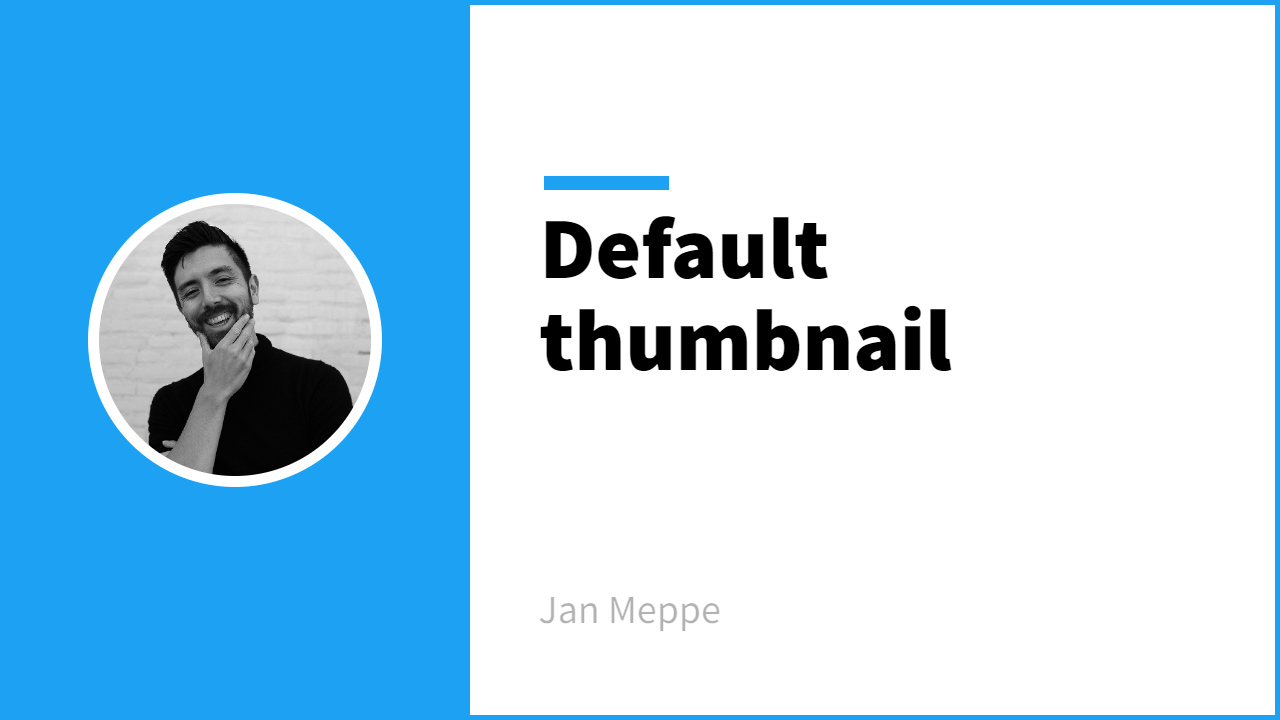
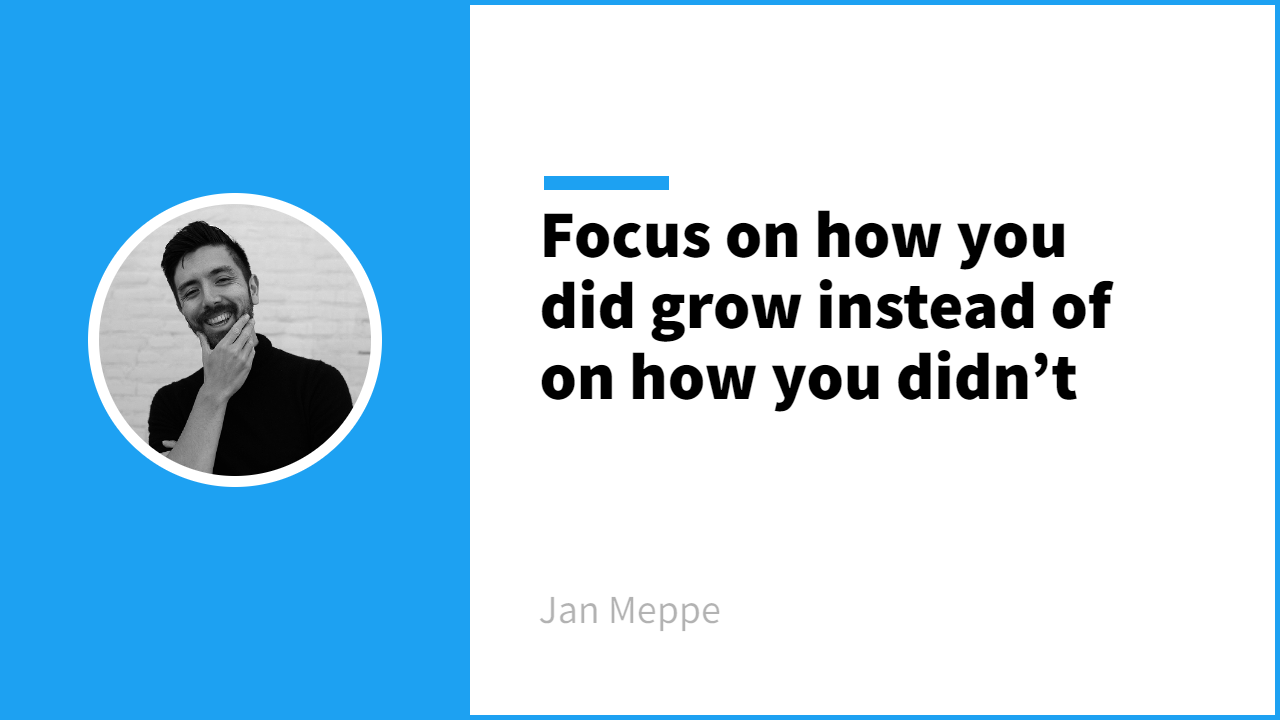
post

Changed region(s): [[0.4062, 0.275, 0.875, 0.5806]]

diff --git a/_posts/2023-01-07-focus-on-how-you-did-grow-instead-of-on-how-you-didnt.md b/_posts/2023-01-07-focus-on-how-you-did-grow-instead-of-on-how-you-didnt.md
@@ -14,10 +14,23 @@ header:
     teaser: "/../assets/2023-01-07-focus-on-how-you-did-grow-instead-of-on-how-you-didnt/thumbnail.png"
 ---
 
-# Hello world
+This week I taught my girlfriend how to ski and came to a funny realisation.
 
+**Key takeaway**: Focus on how you *did* grow instead of on how you *didn’t* grow.
+{: .notice--success}
 
+![](/../assets/2023-01-07-focus-on-how-you-did-grow-instead-of-on-how-you-didnt/2023-01-07-19-49-55.png)
 
+Before this my girlfriend had never skied and let me tell you that learning how to ski is terrifying. Add to this the fact that my girlfriend has a fear of heights and well yeah, you have a recipe for disaster.
+
+Now imagine us halfway down the slope when her panic kicked in.  She would say things like "I want to quit" and "I can't do this" and "I can't ski" even though we are halfway down the mountain. 
+
+I kept telling her that she was doing great and pointing out how far we got already. We were already halfway down the mountain. This seemed to help calm her down. Afterwards at the bottom of the slope I further emphasized her incredible progress. In the span of a couple of days she grew from never having skied to traversing a difficult blue slope on her own.
+
+I thought this was funny because I noticed a parallel with myself in my work
+life. Sometimes I tell my manager that I feel like I haven't grown recently. He then points out all the ways that I did grow but I didn't see myself, like I did to my girlfriend. 
+
+**We should stop focusing on the ways we *didn't* grow and start focusing on all the ways we *did* grow.**
 
 # Subscribe
 <!-- Begin Mailchimp Signup Form -->
